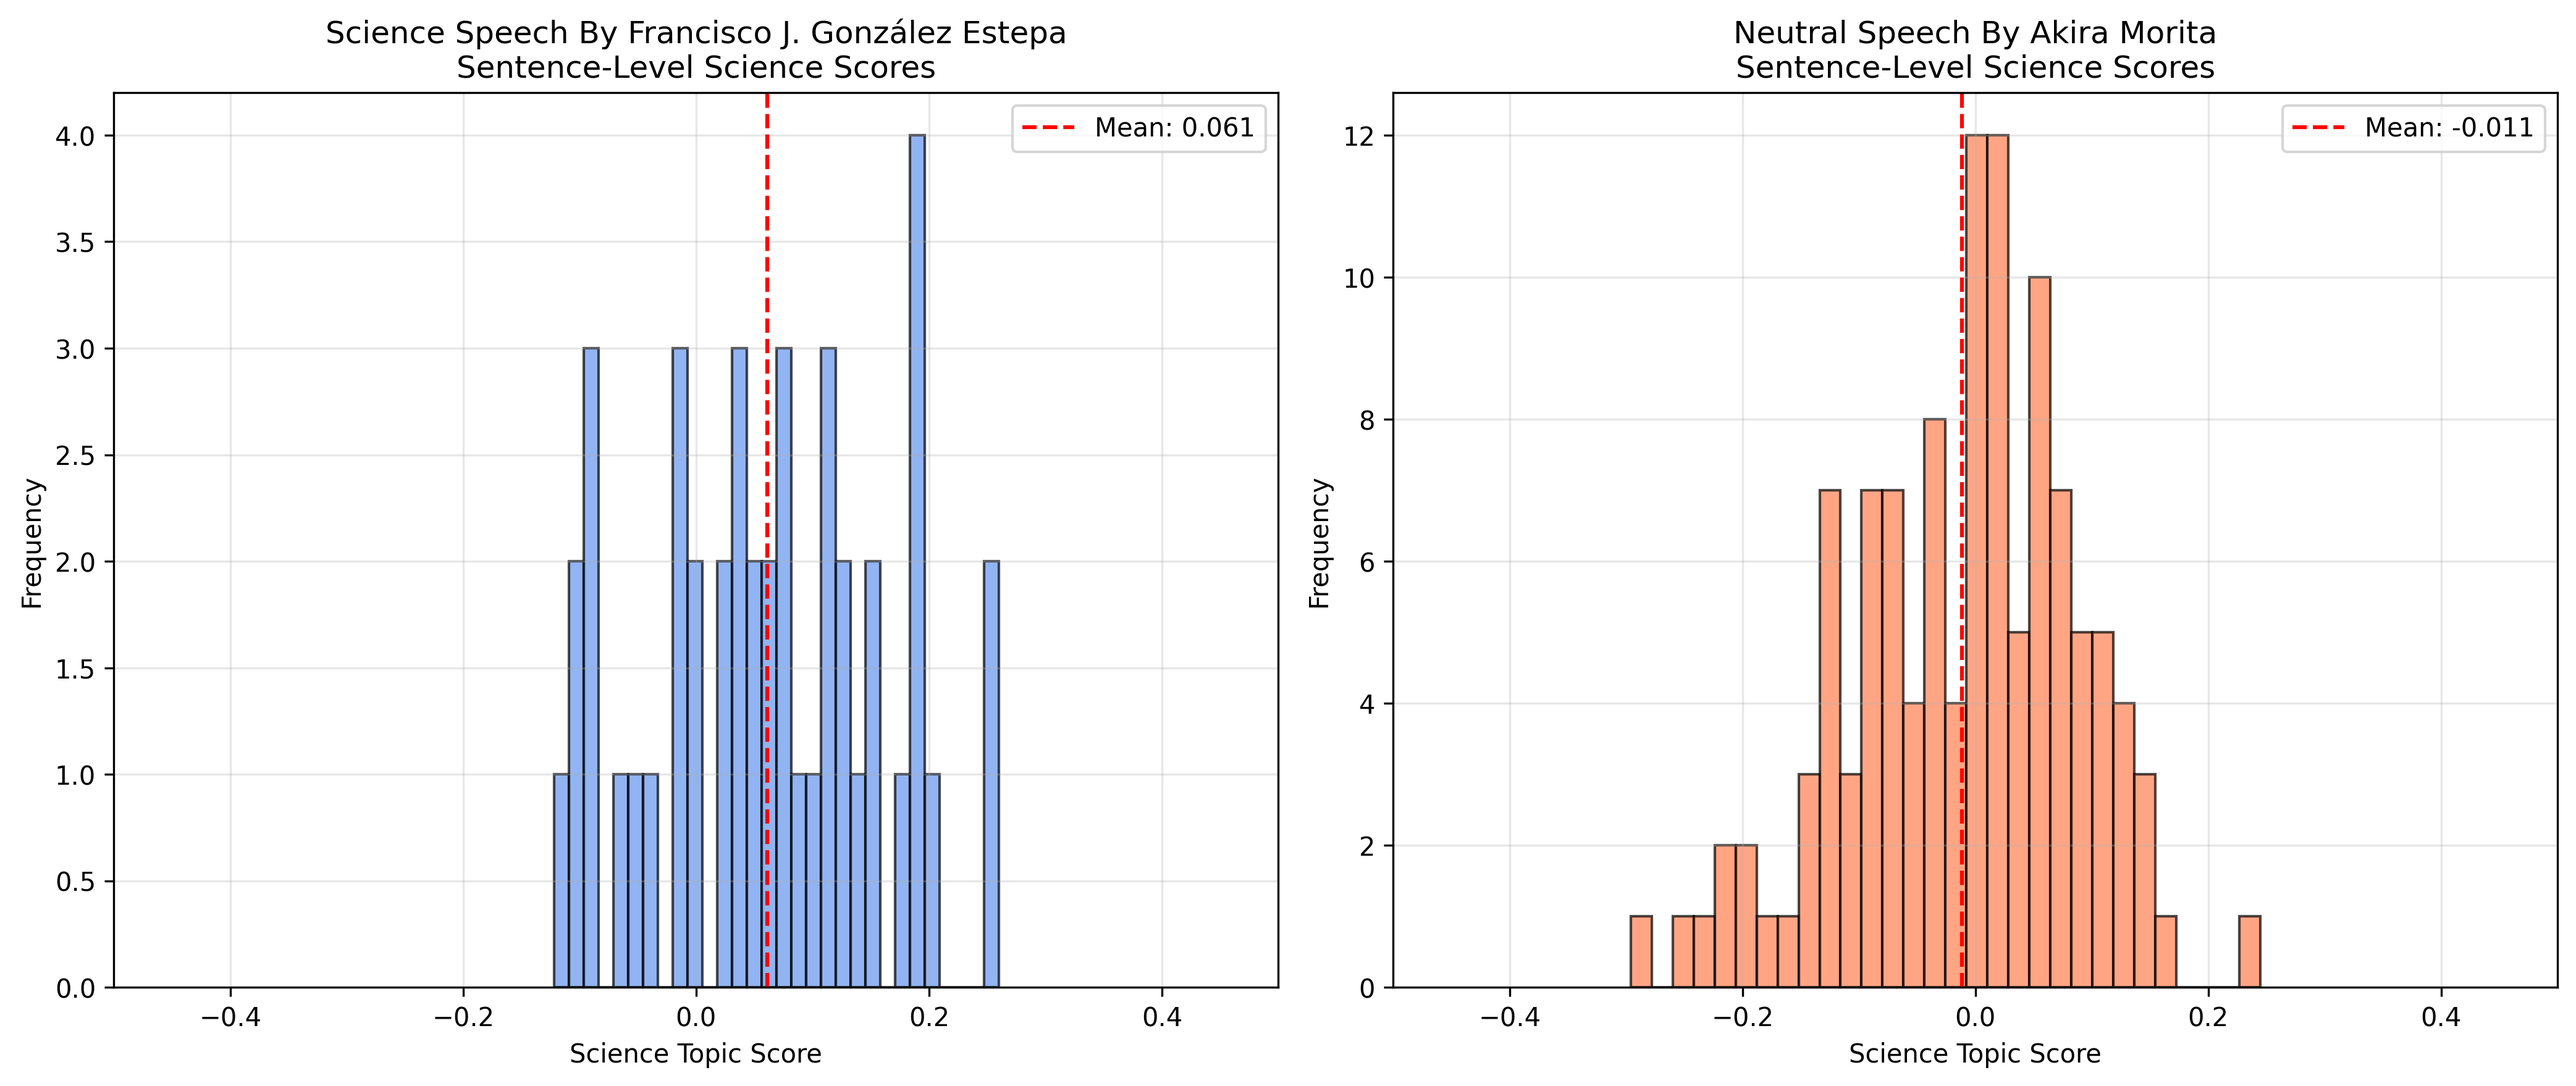
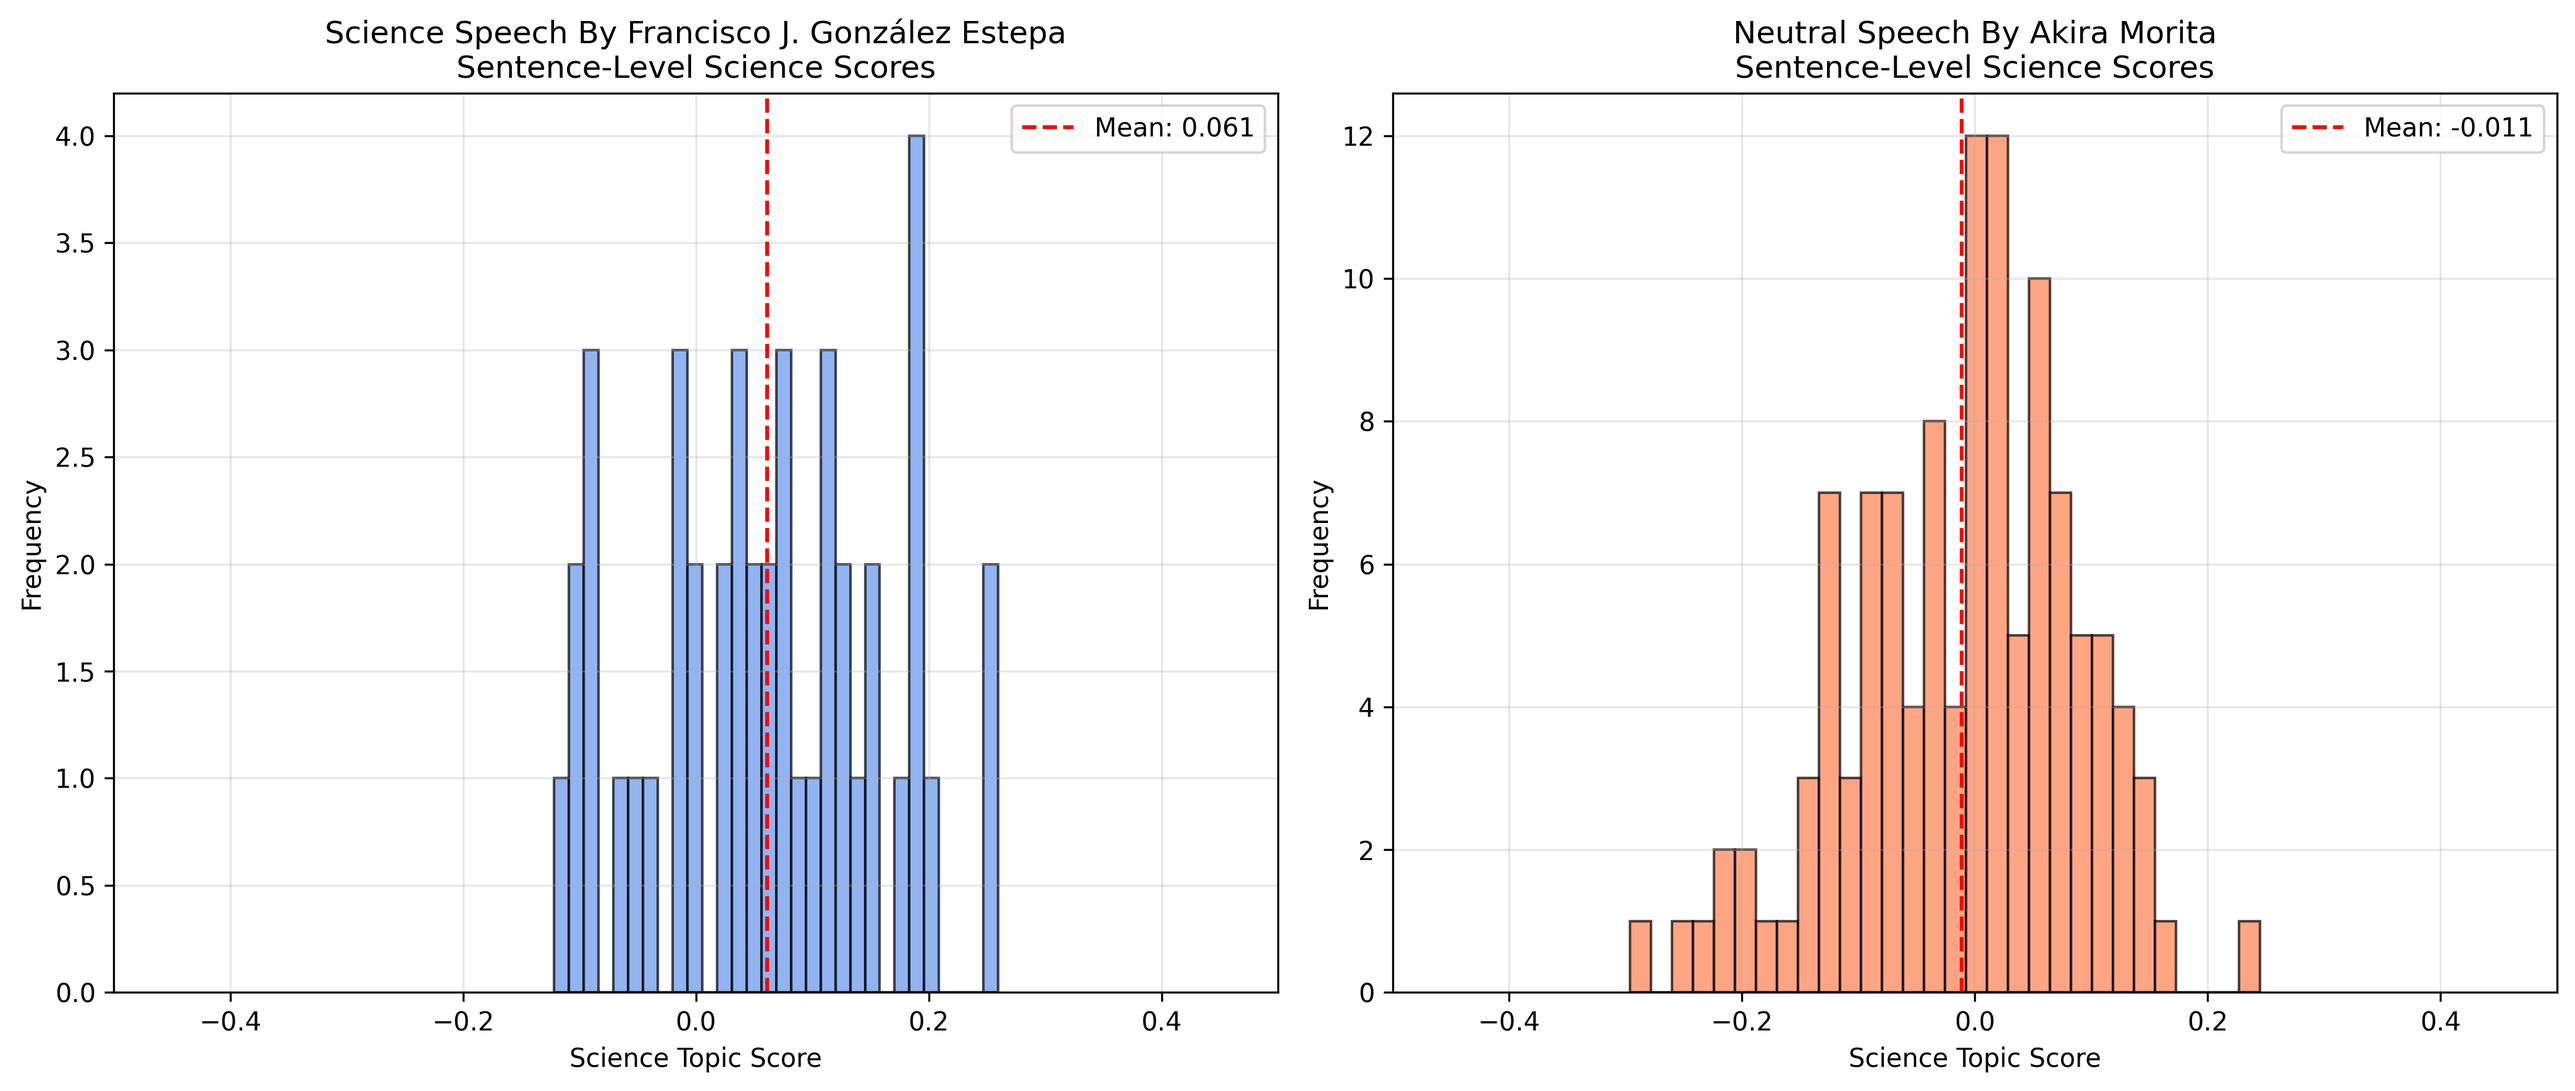
added updated data (up to 2020ish), had to weirdly tweak output code to reflect update

diff --git a/python/model.py b/python/model.py
@@ -1,3 +1,6 @@
+# This module contains functions for computing topic scores for conference speeches, generating visualizations of topic score trends over time,
+# and comparing the distribution of sentence-level topic scores between different speeches.
+
 # Natural Language Processing and Text Analysis for Conference Speeches
 from sentence_transformers import SentenceTransformer # For converting sentences into numerical embeddings
 from spacy.language import Language # For natural language processing tasks such as sentence tokenization
@@ -16,8 +19,6 @@ import matplotlib.axes as axes
 
 # Custom module for handling embeddings
 from python import embeddings
-
-
 
 
 def compute_speech_topic_score(sentence_embeddings: np.ndarray | Tensor, topic_vector: np.ndarray | Tensor) -> float:
@@ -129,7 +130,8 @@ def save_topic_score_by_year_plot(topic: str, yearly_scores: dict) -> None:
     ax.set_xlabel("Year")
     ax.set_ylabel(f"Average {topic} Topic Score")
     ax.set_title(f"Average {topic} Topic Score by Year")
-    plt.savefig(f"outputs/plots/yearly_{topic}_scores.png", dpi=300, bbox_inches="tight")
+    #plt.savefig(f"outputs/plots/yearly_{topic}_scores.png", dpi=300, bbox_inches="tight") # for og data
+    plt.savefig(f"outputs/plots/yearly_{topic}_scores_NEW.png", dpi=300, bbox_inches="tight")
 
     plt.close()
 
@@ -198,5 +200,7 @@ def save_hist_comparison_plot( topic: str, neutral: str, topic_spkr: str, neutra
     conf_hist_plot(topic, topic, topic_spkr, ax1, axis, topic_embeds, topic_color)
     conf_hist_plot(topic, neutral, neutral_spkr, ax2, axis, neutral_embeds, neutral_color)
     plt.tight_layout()
-    plt.savefig(f"outputs/plots/{topic}_hist_comparison.png", dpi=300, bbox_inches="tight")
+    #plt.savefig(f"outputs/plots/{topic}_hist_comparison.png", dpi=300, bbox_inches="tight") # for og data
+    plt.savefig(f"outputs/plots/{topic}_hist_comparison_NEW.png", dpi=300, bbox_inches="tight")
+
     plt.close()

diff --git a/main.py b/main.py
@@ -12,6 +12,7 @@ NLP_MODEL = "en_core_web_sm" # English model for natural language processing tas
 
 # Conference speech data
 DATA_DIR = "data/processed/speeches.csv"
+NEW_DATA_DIR = "data/processed/new_speeches.csv"
 
 # Anchor sentences for each topic, used to define the topic axes in the embedding space
 # NOTE: Sentences were generated using ChatGPT, so they may not be perfect representations, and should be checked for accuracy and relevance to the topic.
@@ -71,7 +72,7 @@ def main():
     print("loading all models and data...")
     model, data, nlp = embeddings.init_models(
         EMBEDDINGS_MODEL,
-        DATA_DIR,
+        NEW_DATA_DIR, #DATA_DIR,
         NLP_MODEL,
     )
     scalar = StandardScaler()
@@ -136,6 +137,8 @@ def main():
 
         print(f"saved {topic} histogram comparison plots!")
     print("script finished.")
+
+
 
 # Running this script will execute the main function, which will load the necessary models and data, compute topic scores for the specified topics, and generate visualizations for each topic.
 #  The generated visualizations will be saved to the appropriate directories for later review and analysis.

diff --git a/python/pca.py b/python/pca.py
@@ -69,5 +69,6 @@ def save_pca_plot(
     pca, scores = get_scores(scalar, n, pos_vec, neg_vec, axis, pos_embeds, neg_embeds)
     labels = get_labels(topic, pos_vec, neg_vec, pos_embeds, neg_embeds)
     add_to_plot(pca, scores, labels)
-    plt.savefig(f"outputs/plots/{topic}_pca.png", dpi=300, bbox_inches="tight")
+    #plt.savefig(f"outputs/plots/{topic}_pca.png", dpi=300, bbox_inches="tight") # for og data
+    plt.savefig(f"outputs/plots/{topic}_pca_NEW.png", dpi=300, bbox_inches="tight")
     plt.close()
